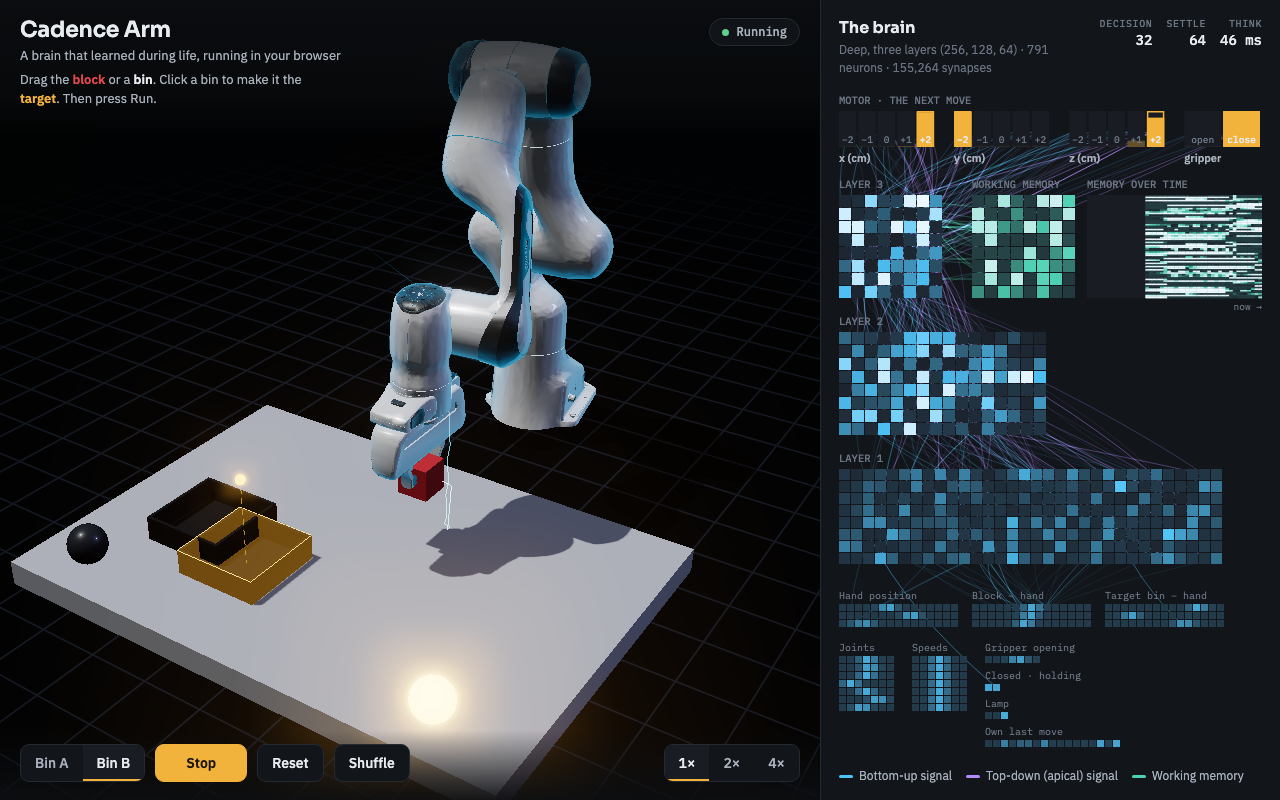
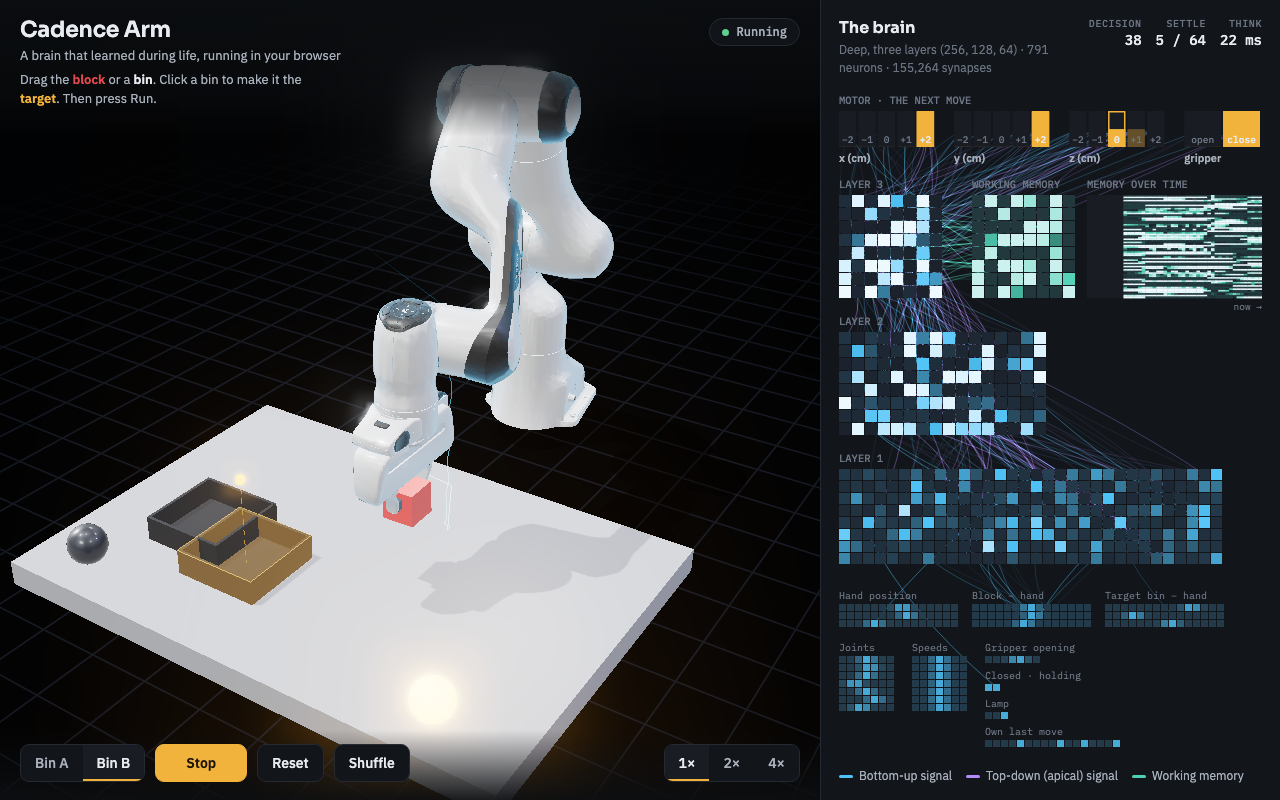
Robot Arm: the settle plays as a wave in the brain view
Every second decision the worker replays that decision's settle exactly,
from its start state for the act's own sweep count, and the panel plays
it sweep by sweep. The host checks the replay against the act and sends
nothing on a mismatch. Same brain; ?wave=0 turns the replay off.

diff --git a/robot-arm/site/app.js b/robot-arm/site/app.js
@@ -412,13 +412,18 @@ function stop(message, kind = '') {
   if (message) toast(message, kind, 0);
 }
 
+// every WAVE_EVERY-th decision the worker also replays the decision's settle sweep by sweep for
+// the brain panel (?wave=N in the address; 0 turns it off)
+const WAVE_EVERY = (() => { const v = new URLSearchParams(location.search).get('wave'); return v === null ? 2 : Math.max(0, Number(v) || 0); })();
+
 async function think() {
   if (state.phase !== 'running') return;
   if (state.decision >= CAP) { stop(`Out of time after ${CAP} decisions`, 'bad'); return; }
   const x = cell.observe();
   state.awaiting = true;
   let reply;
-  try { reply = await brain.call('act', { x: Array.from(x) }); } catch (error) { stop(`The brain stopped: ${error.message}`, 'bad'); return; }
+  const wave = WAVE_EVERY > 0 && state.decision % WAVE_EVERY === 0;
+  try { reply = await brain.call('act', { x: Array.from(x), wave }); } catch (error) { stop(`The brain stopped: ${error.message}`, 'bad'); return; }
   state.awaiting = false;
   if (state.phase !== 'running') return;
   const answer = reply.refused ? holdAnswer() : reply.answer;
@@ -433,6 +438,8 @@ async function think() {
   ui.sweeps.textContent = reply.refused ? 'refused' : `${reply.sweeps}`;
   ui.ms.textContent = `${Math.round(reply.ms ?? reply.worker_ms)} ms`;
   (state.thinkMs ||= []).push(reply.ms ?? reply.worker_ms);
+  (state.frames ||= []).push([reply.worker_ms ?? reply.ms, reply.wave ? 1 : 0]);
+  if (reply.wave) view.playWave(reply.wave, (k, of) => { ui.sweeps.textContent = `${k} / ${of}`; }, () => { ui.sweeps.textContent = `${reply.sweeps}`; });
   const { target, qTarget } = cell.command(answer);
   scenery.aim.position.set(...target); scenery.aim.visible = true;
   cell.decideBegin(qTarget, answer[3]);

diff --git a/robot-arm/site/brainview.js b/robot-arm/site/brainview.js
@@ -70,6 +70,13 @@ export class BrainView {
     this.target.fill(-0.1); this.messages.fill(0); this.probabilities = null; this.answer = null; this.history = []; this.trace = null;
   }
 
+  /** Play a decision's settle sweep by sweep (the worker's exact replay): one sweep per animation
+   *  frame, shown as it is, so the change spreads from the senses through the layers and back. */
+  playWave(wave, onSweep, onEnd) {
+    if (!this.ready || !wave || !wave.frames.length) return;
+    this.wave = { ...wave, i: 0, onSweep, onEnd };
+  }
+
   update(reply, answer) {
     if (!this.ready || !reply.activation) return;
     this.target.set(reply.activation);
@@ -185,6 +192,15 @@ export class BrainView {
   // --- drawing --------------------------------------------------------------------------------
   frame(dt) {
     if (!this.ready || !this.W) return;
+    if (this.wave) {
+      const w = this.wave, k = w.i++;
+      this.shown.set(w.frames[k]);
+      w.onSweep?.(w.sweeps[k], w.of);
+      if (w.i >= w.frames.length) { this.wave = null; w.onEnd?.(); }
+      for (let i = 0; i < this.messages.length; i++) this.shownMessages[i] += (this.messages[i] - this.shownMessages[i]) * 0.3;
+      this.draw();
+      return;
+    }
     const a = 1 - Math.exp(-dt / 0.12);
     for (let i = 0; i < this.n; i++) this.shown[i] += (this.target[i] - this.shown[i]) * a;
     for (let i = 0; i < this.messages.length; i++) this.shownMessages[i] += (this.messages[i] - this.shownMessages[i]) * a;

diff --git a/robot-arm/site/index.html b/robot-arm/site/index.html
@@ -58,7 +58,7 @@
       <span><i class="sw td"></i>Top-down (apical) signal</span>
       <span><i class="sw mem"></i>Working memory</span>
     </div>
-    <p class="note">Every square is a neuron, lit by its activity after the brain settles on what it senses. The brain chooses a small move of the hand (in centimetres) and whether to close the gripper, about five times a second. Its long-term memory is its 155,264 synapses, frozen here; its short-term memory is the working trace on the right, which carries the last moments forward.</p>
+    <p class="note">Every square is a neuron, lit by its activity after the brain settles on what it senses; every second decision the settle itself plays sweep by sweep (SETTLE counts the sweeps), the brain's exact settle replayed. The brain chooses a small move of the hand (in centimetres) and whether to close the gripper, about five times a second. Its long-term memory is its 155,264 synapses, frozen here; its short-term memory is the working trace on the right, which carries the last moments forward.</p>
     <footer class="foot">Cadence 0.95.2 · MuJoCo 3.17 · Franka Panda model from MuJoCo Menagerie · <a href="https://github.com/muellerberndt/cadence" target="_blank" rel="noopener">Cadence on GitHub</a></footer>
   </aside>
 </div>

diff --git a/robot-arm/site/pack/py/armbrain/host.py b/robot-arm/site/pack/py/armbrain/host.py
@@ -82,6 +82,16 @@ SLOT_NAMES = ("dx", "dy", "dz", "grip")
 TOP_PER_PAIR = 60
 
 
+def _copy_state(state):
+    """An owned copy of a ``BrainState`` (None before the first act)."""
+    if state is None:
+        return None
+    from dataclasses import replace
+
+    return replace(state, v=np.array(state.v), activation=np.array(state.activation),
+                   adaptation=np.array(state.adaptation))
+
+
 def _r(values: Any, digits: int = 4) -> list:
     return [round(float(v), digits) for v in np.asarray(values).ravel()]
 
@@ -134,8 +144,12 @@ class Host:
         self.decisions = 0
         return {"reset": True}
 
-    def act(self, x: list[float]) -> dict[str, Any]:
+    def act(self, x: list[float], wave: bool = False) -> dict[str, Any]:
+        """``Brain.act(x, greedy=True)``; with ``wave`` the reply also carries this decision's
+        settle sweep by sweep (``_wave``), outside the measured ``ms``."""
         obs = np.asarray(x, dtype=float)[None]
+        before = _copy_state(self.brain.basal_ganglia.state) if wave else None
+        drive = self.brain.stimulus(obs) if before is not None else None
         began = time.perf_counter()
         try:
             answer = np.asarray(self.brain.act(obs, greedy=True))[0]
@@ -158,13 +172,39 @@ class Host:
         trace = self.brain.working_memory.trace
         trace = None if trace is None else np.asarray(trace)
         trace = None if trace is None else (trace[0] if trace.ndim == 2 else trace)
+        out_wave = None
+        if before is not None:
+            began = time.perf_counter()
+            out_wave = self._wave(drive, before, settle, a)
+            if out_wave is not None:
+                out_wave["ms"] = round((time.perf_counter() - began) * 1000, 1)
         return {
+            "wave": out_wave,
             "answer": [int(v) for v in answer], "ms": round(ms, 1), "decision": self.decisions,
             "sweeps": int(settle.get("steps", 0)), "residual": float(settle.get("max_residual") or 0.0),
             "activation": _r(a, 3), "probabilities": probabilities,
             "trace": None if trace is None else _r(trace, 3),
             "flows": _r(flows, 3), "top_messages": _r(self.efficacy[self.top] * a[self.pre[self.top]], 4),
         }
+
+    def _wave(self, drive, before, settle, final) -> dict[str, Any] | None:
+        """The decision's settle, sweep by sweep: the brain settled again from the state the act
+        started from, under the same drive, for exactly the sweeps the act ran, every sweep
+        recorded. The last sweep is the state the answer was read from (checked; nothing is sent
+        when it differs or when the act's solve halved its step). Up to 16 sweeps are sent, with
+        the largest change of any neuron at every sweep."""
+        steps = int(settle.get("steps", 0))
+        if steps <= 0 or settle.get("damping_halvings") or settle.get("rescue_steps"):
+            return None
+        traj = np.asarray(self.brain.brain.settle_batch(drive, steps=steps, state=before, tolerance=None,
+                                                         trajectory=True).trajectory)[:, 0]
+        if np.abs(traj[-1] - final).max() > 1e-9:
+            return None
+        keep = np.unique(np.linspace(0, steps - 1, min(16, steps)).round().astype(int))
+        start = np.asarray(before.activation)[0]
+        move = np.abs(np.diff(np.vstack([start, traj]), axis=0)).max(axis=1)
+        return {"sweeps": [int(k) + 1 for k in keep], "of": steps, "move": _r(move, 5),
+                "frames": [_r(traj[k], 3) for k in keep]}
 
     def handle(self, m: dict[str, Any]) -> dict[str, Any]:
         command = m.get("command")
@@ -173,5 +213,5 @@ class Host:
         if command == "reset":
             return self.reset()
         if command == "act":
-            return self.act(m["x"])
+            return self.act(m["x"], bool(m.get("wave", False)))
         return {"error": f"unknown command {command!r}"}

diff --git a/robot-arm/site/py/armbrain/host.py b/robot-arm/site/py/armbrain/host.py
@@ -82,6 +82,16 @@ SLOT_NAMES = ("dx", "dy", "dz", "grip")
 TOP_PER_PAIR = 60
 
 
+def _copy_state(state):
+    """An owned copy of a ``BrainState`` (None before the first act)."""
+    if state is None:
+        return None
+    from dataclasses import replace
+
+    return replace(state, v=np.array(state.v), activation=np.array(state.activation),
+                   adaptation=np.array(state.adaptation))
+
+
 def _r(values: Any, digits: int = 4) -> list:
     return [round(float(v), digits) for v in np.asarray(values).ravel()]
 
@@ -134,8 +144,12 @@ class Host:
         self.decisions = 0
         return {"reset": True}
 
-    def act(self, x: list[float]) -> dict[str, Any]:
+    def act(self, x: list[float], wave: bool = False) -> dict[str, Any]:
+        """``Brain.act(x, greedy=True)``; with ``wave`` the reply also carries this decision's
+        settle sweep by sweep (``_wave``), outside the measured ``ms``."""
         obs = np.asarray(x, dtype=float)[None]
+        before = _copy_state(self.brain.basal_ganglia.state) if wave else None
+        drive = self.brain.stimulus(obs) if before is not None else None
         began = time.perf_counter()
         try:
             answer = np.asarray(self.brain.act(obs, greedy=True))[0]
@@ -158,13 +172,39 @@ class Host:
         trace = self.brain.working_memory.trace
         trace = None if trace is None else np.asarray(trace)
         trace = None if trace is None else (trace[0] if trace.ndim == 2 else trace)
+        out_wave = None
+        if before is not None:
+            began = time.perf_counter()
+            out_wave = self._wave(drive, before, settle, a)
+            if out_wave is not None:
+                out_wave["ms"] = round((time.perf_counter() - began) * 1000, 1)
         return {
+            "wave": out_wave,
             "answer": [int(v) for v in answer], "ms": round(ms, 1), "decision": self.decisions,
             "sweeps": int(settle.get("steps", 0)), "residual": float(settle.get("max_residual") or 0.0),
             "activation": _r(a, 3), "probabilities": probabilities,
             "trace": None if trace is None else _r(trace, 3),
             "flows": _r(flows, 3), "top_messages": _r(self.efficacy[self.top] * a[self.pre[self.top]], 4),
         }
+
+    def _wave(self, drive, before, settle, final) -> dict[str, Any] | None:
+        """The decision's settle, sweep by sweep: the brain settled again from the state the act
+        started from, under the same drive, for exactly the sweeps the act ran, every sweep
+        recorded. The last sweep is the state the answer was read from (checked; nothing is sent
+        when it differs or when the act's solve halved its step). Up to 16 sweeps are sent, with
+        the largest change of any neuron at every sweep."""
+        steps = int(settle.get("steps", 0))
+        if steps <= 0 or settle.get("damping_halvings") or settle.get("rescue_steps"):
+            return None
+        traj = np.asarray(self.brain.brain.settle_batch(drive, steps=steps, state=before, tolerance=None,
+                                                         trajectory=True).trajectory)[:, 0]
+        if np.abs(traj[-1] - final).max() > 1e-9:
+            return None
+        keep = np.unique(np.linspace(0, steps - 1, min(16, steps)).round().astype(int))
+        start = np.asarray(before.activation)[0]
+        move = np.abs(np.diff(np.vstack([start, traj]), axis=0)).max(axis=1)
+        return {"sweeps": [int(k) + 1 for k in keep], "of": steps, "move": _r(move, 5),
+                "frames": [_r(traj[k], 3) for k in keep]}
 
     def handle(self, m: dict[str, Any]) -> dict[str, Any]:
         command = m.get("command")
@@ -173,5 +213,5 @@ class Host:
         if command == "reset":
             return self.reset()
         if command == "act":
-            return self.act(m["x"])
+            return self.act(m["x"], bool(m.get("wave", False)))
         return {"error": f"unknown command {command!r}"}

diff --git a/robot-arm/site/tools/check_page.py b/robot-arm/site/tools/check_page.py
@@ -80,9 +80,15 @@ def main() -> None:
             result = wait_result(page, a.timeout)
             decisions = int(page.evaluate("document.body.dataset.decisions"))
             ms = page.evaluate("(window.cadenceArm.state.thinkMs || []).slice()")
+            frames = page.evaluate("(window.cadenceArm.state.frames || []).slice()")
             checks.append({"name": "places the block in bin A", "passed": result.startswith("Placed in bin A"),
                            "result": result, "decisions": decisions,
                            "brain_ms_median": sorted(ms)[len(ms) // 2] if ms else None})
+            waved = sorted(f[0] for f in frames if f[1]); plain = sorted(f[0] for f in frames if not f[1])
+            checks.append({"name": "the settle plays as a wave", "passed": len(waved) >= decisions // 3,
+                           "wave_decisions": len(waved), "decisions": len(frames),
+                           "worker_ms_median_wave": waved[len(waved) // 2] if waved else None,
+                           "worker_ms_median_plain": plain[len(plain) // 2] if plain else None})
 
             # 2. bin B, moved while the arm carries the block
             page.evaluate("window.cadenceArm.state.thinkMs = []; document.body.dataset.result = '';"

diff --git a/robot-arm/site/README.md b/robot-arm/site/README.md
@@ -58,7 +58,14 @@ band the brain was tested to place 19 or 20 of 20 blocks. In the far corners it 
 - `tools/check_page.py` runs the page in headless Chrome: it placed the block in bin A in 52
   decisions, exactly as the Python trial did, and with bin B as the target, moved to (0.66, −0.12)
   m once the hand held the block, it placed the block in the moved bin
-  (`../evidence/page_check.json`). The brain answered in a median of 51.3 ms per decision there.
+  (`../evidence/page_check.json`). The brain answered in a median of 29.5 ms per decision there.
+- **The settle as a wave.** Every second decision (`?wave=N` sets it, `?wave=0` turns it off)
+  the worker settles the brain again from the state the decision started from, under the same
+  drive, for exactly the sweeps the decision ran, and sends up to 16 of the sweeps; the panel
+  shows them one per animation frame and SETTLE counts them. The host checks that the last sweep
+  is the state the answer was read from and sends nothing otherwise. In the page check a decision
+  carrying a wave took 78.9 ms of worker time (median, 25 decisions) against 33.5 ms for the
+  others, and the run placed the block on the same decisions as without it.
 
 ## Run it locally
 

diff --git a/robot-arm/MODEL_CARD.md b/robot-arm/MODEL_CARD.md
@@ -69,9 +69,11 @@ Frozen: the synapses do not change while the visitor plays. The visitor places t
 the bins (bins only inside the band where the brain placed 19 or 20 of 20), picks the target
 bin, runs, and may move the target bin while the arm carries the block. Run and Reset clear the
 working trace; nothing is saved in the browser. The page check (`evidence/page_check.json`,
-headless Chrome on a Mac running other jobs): the brain loads in 32.1 s; bin A placed in 52
+headless Chrome on a Mac running other jobs): the brain loads in 12.9 s; bin A placed in 52
 decisions; bin B, moved to (0.66, −0.12) mid-carry, placed in the moved bin in 60 decisions;
-median 51.3 ms per brain decision; no console errors.
+median 29.5 ms per brain decision; no console errors. Every second decision the worker also
+replays the decision's settle sweep by sweep for the brain panel (exact, checked against the
+answer's state): 78.9 ms of worker time on those decisions against 33.5 ms on the others.
 
 ## Limits
 

diff --git a/robot-arm/README.md b/robot-arm/README.md
@@ -98,7 +98,10 @@ All results are frozen brains on fresh trials, three seeds per arm, with the tea
 same trials. The files are in [`evidence/`](evidence/). The page's brain gives the same command
 as the recorded Python trials on all 104 decisions of `site/tests/fixtures/` under 0.95.2, and
 the page check (`site/tools/check_page.py`, [`page_check.json`](evidence/page_check.json)) places
-the block in bin A in 52 decisions and follows bin B moved mid-carry into its new place.
+the block in bin A in 52 decisions and follows bin B moved mid-carry into its new place. Every
+second decision the brain panel replays that decision's settle sweep by sweep, an exact replay
+checked against the answer's state; it adds about 45 ms of worker time to those decisions
+([`site/README.md`](site/README.md)).
 
 **Stage 2, nominal physics, after 400 episodes** (200 trials; [`stage2_final.json`](evidence/stage2_final.json)):
 
